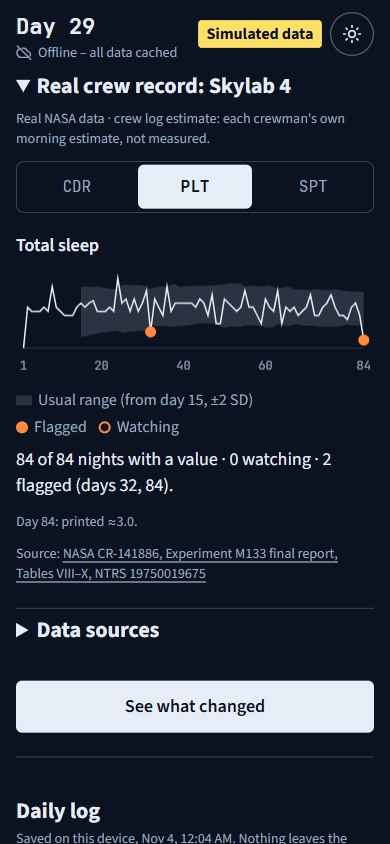
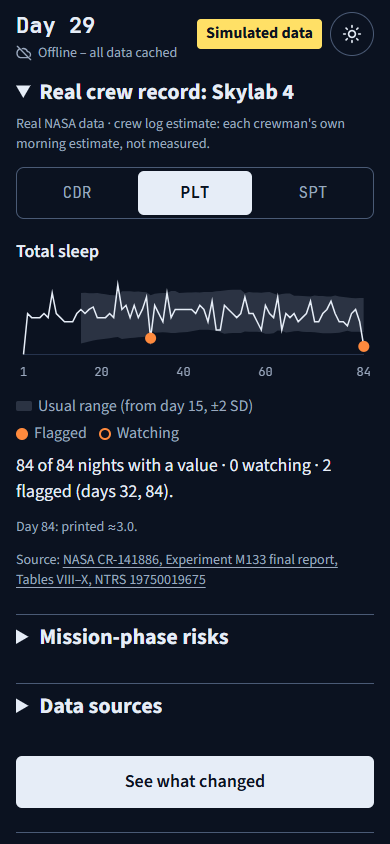
Mission-phase risks: five NASA hazards panel on the day 29 console

diff --git a/web/index.html b/web/index.html
@@ -195,6 +195,12 @@ fieldset { border: 0; padding: 0; margin: 28px 0 0; min-width: 0; }
 .range.three { grid-template-columns: repeat(3, 1fr); }
 .skylab .legend { margin: 12px 0 8px; }
 .skylab .legend li { padding: 0; border: 0; }
+/* Mission-phase risks (PLAN item 5, design B3): static NASA text; each risk a card with its day 29 chip. */
+.hazards h3 { margin: 4px 0 8px; font-size: 28px; line-height: 1.2; }
+.hazards h4 { margin: 20px 0 4px; font-size: 20px; }
+.hazards .trend-card { margin-top: 8px; }
+.hazards .trend-card p + p { margin-top: 6px; }
+.risk-head { display: flex; flex-wrap: wrap; justify-content: space-between; align-items: center; gap: 4px 8px; margin-bottom: 6px; font-size: 18px; }
 .sources { margin-top: 24px; border-top: 1px solid var(--strong); }
 .sources summary { min-height: 44px; padding: 6px 0; font-size: 22px; line-height: 32px; font-weight: 700; cursor: pointer; } /* list-item keeps the open/closed marker */
 .sources ul { list-style: none; padding: 0; margin: 0; font-size: 16px; }
@@ -443,6 +449,54 @@ fieldset { border: 0; padding: 0; margin: 28px 0 0; min-width: 0; }
     <p id="skylab-notes" class="meta num" hidden></p>
     <p class="meta">Source: <a href="https://ntrs.nasa.gov/citations/19750019675" target="_blank" rel="noopener noreferrer">NASA CR-141886, Experiment M133 final report, Tables VIII–X, NTRS 19750019675</a></p>
   </details>
+  <details id="hazards" class="sources hazards">
+    <summary>Mission-phase risks</summary>
+    <h3>Day 29 of flight</h3>
+    <p>NASA's five hazards of long missions, with NASA's numbers. The day 29 lines are our reading of NASA's timings.</p>
+    <section>
+      <h4>Space radiation</h4>
+      <p>"Invisible to the human eye, space radiation is not only stealthy but considered one of the most hazardous aspects of spaceflight."</p>
+      <p class="meta">Source: <a href="https://www.nasa.gov/hrp/hazards/" target="_blank" rel="noopener noreferrer">NASA Human Research Program, 5 Hazards of Human Spaceflight</a></p>
+    </section>
+    <section>
+      <h4>Isolation and confinement</h4>
+      <p>"Behavioral responses occur among groups of people far from Earth who are isolated and confined in a small space over a long period of time."</p>
+      <p class="meta">Source: <a href="https://www.nasa.gov/hrp/hazard-isolation-and-confinement/" target="_blank" rel="noopener noreferrer">NASA Human Research Program, Hazard: Isolation and Confinement</a></p>
+    </section>
+    <section>
+      <h4>Distance from Earth</h4>
+      <p>"Instructions, new supplies, medical care, and more become increasingly challenging to receive from Earth as astronauts venture deeper into space."</p>
+      <p class="meta">Source: <a href="https://www.nasa.gov/hrp/hazard-distance-from-earth/" target="_blank" rel="noopener noreferrer">NASA Human Research Program, Hazard: Distance From Earth</a></p>
+    </section>
+    <section>
+      <h4>Gravity fields</h4>
+      <p>"Floating weightlessly within a spacecraft can lead to dizziness, bone and muscle loss, vision issues, and more."</p>
+      <p class="meta">Source: <a href="https://www.nasa.gov/hrp/hazard-gravity-fields/" target="_blank" rel="noopener noreferrer">NASA Human Research Program, Hazard: Gravity Fields</a></p>
+      <div class="trend-card">
+        <div class="risk-head"><strong>Space adaptation syndrome</strong><span class="chip">Day 29: usually past</span></div>
+        <p>"Space Adaptation Syndrome (SAS) occurs in up to 70% of first-time fliers (30% of whom may experience vomiting) during the first 48 to 72 hours of microgravity."</p>
+        <p class="meta">Source: <a href="https://www.nasa.gov/wp-content/uploads/2020/10/2022-04-08_nasa-std-3001_vol_2_rev_c_final.pdf" target="_blank" rel="noopener noreferrer">NASA-STD-3001 Vol 2 Rev C, [V2 7102] rationale, p.96</a></p>
+      </div>
+      <div class="trend-card">
+        <div class="risk-head"><strong>Headward fluid shift</strong><span class="chip">Day 29: ongoing</span></div>
+        <p>The total fluid shift was reported to be 2 L, most of it in the first 6 to 10 hours after entering microgravity.</p>
+        <p class="meta">Source: <a href="https://ntrs.nasa.gov/citations/20180000936" target="_blank" rel="noopener noreferrer">NTRS 20180000936, Evidence Report: Risk of Spaceflight Associated Neuro-ocular Syndrome (SANS), pp.69–70</a></p>
+        <p class="meta">Source for "ongoing": <a href="https://ntrs.nasa.gov/citations/20140003729" target="_blank" rel="noopener noreferrer">NTRS 20140003729, Evidence Report: Risk of Decompression Sickness (DCS), p.11</a></p>
+      </div>
+      <div class="trend-card">
+        <div class="risk-head"><strong>Bone loss</strong><span class="chip">Day 29: ongoing</span></div>
+        <p>"Without the continuous load of Earth’s gravity, weight-bearing bones lose on average 1% to 1.5% of mineral density per month during spaceflight."</p>
+        <p class="meta">Source: <a href="https://www.nasa.gov/hrp/hazard-gravity-fields/" target="_blank" rel="noopener noreferrer">NASA Human Research Program, Hazard: Gravity Fields</a></p>
+        <p>With resistive exercise on ARED, hip and spine loss has been reduced to 0.3 to 0.5% per month.</p>
+        <p class="meta">Source: <a href="https://humanresearchroadmap.nasa.gov/evidence/reports/Osteo.pdf" target="_blank" rel="noopener noreferrer">NASA Evidence Report: Risk of Early Onset Osteoporosis Due to Space Flight, p.21</a></p>
+      </div>
+    </section>
+    <section>
+      <h4>Hostile closed environments</h4>
+      <p>"Maintaining a safe ecosystem inside a vehicle presents unique challenges, from ensuring optimal temperatures, pressures, and lighting, to reducing noise, monitoring microbial communities, and tracking immune responses."</p>
+      <p class="meta">Source: <a href="https://www.nasa.gov/hrp/hazard-hostile-closed-environments/" target="_blank" rel="noopener noreferrer">NASA Human Research Program, Hazard: Hostile/Closed Environments</a></p>
+    </section>
+  </details>
   <details id="sources" class="sources">
     <summary>Data sources</summary>
     <p class="meta">Source · agency · used for · real or simulated · id or link. Links open the source online; nothing is fetched.</p>
@@ -570,6 +624,6 @@ fieldset { border: 0; padding: 0; margin: 28px 0 0; min-width: 0; }
 <script src="spe.js?v=8dc481d0f5"></script>
 <script src="reaction.js?v=0c373ca889"></script>
 <script src="store.js?v=cb99d76b39"></script>
-<script src="app.js?v=beb4c3fe03"></script>
+<script src="app.js?v=938eb4f0b1"></script>
 </body>
 </html>

diff --git a/web/app.js b/web/app.js
@@ -327,6 +327,7 @@ function recompute(day) {
   state.flags = Rules.evaluate(state.rows);
   $("day-label").textContent = `Day ${day}`;
   put($("flags-title"), day === TODAY ? "What changed today" : "What changed on day 30");
+  $("hazards").hidden = day !== TODAY; // its text is about day 29 (PLAN item 5)
   renderConsole();
 }
 

diff --git a/tests/test_hazards.py b/tests/test_hazards.py
@@ -1,0 +1,143 @@
+"""PLAN item 5, design B3: mission-phase risks under the five HRP hazards. Static text in web/index.html, display only.
+The sentences below were matched against the sources opened 4 Nov 2026; they must reach the screen unedited."""
+
+import json
+import re
+from html import unescape
+from pathlib import Path
+
+from baseline.compute.wording import BLOCKED, blocks_diagnostic
+from tests.test_marks import pytestmark as needs_node, run
+
+HRP = "https://www.nasa.gov/hrp/"
+STD = "https://www.nasa.gov/wp-content/uploads/2020/10/2022-04-08_nasa-std-3001_vol_2_rev_c_final.pdf"
+OSTEO = "https://humanresearchroadmap.nasa.gov/evidence/reports/Osteo.pdf"
+HEADINGS = ["Space radiation", "Isolation and confinement", "Distance from Earth", "Gravity fields", "Hostile closed environments"]
+SENTENCES = {
+    "Space radiation": ('"Invisible to the human eye, space radiation is not only stealthy but considered one of the most hazardous aspects of spaceflight."', HRP + "hazards/"),
+    "Isolation and confinement": ('"Behavioral responses occur among groups of people far from Earth who are isolated and confined in a small space over a long period of time."', HRP + "hazard-isolation-and-confinement/"),
+    "Distance from Earth": ('"Instructions, new supplies, medical care, and more become increasingly challenging to receive from Earth as astronauts venture deeper into space."', HRP + "hazard-distance-from-earth/"),
+    "Gravity fields": ('"Floating weightlessly within a spacecraft can lead to dizziness, bone and muscle loss, vision issues, and more."', HRP + "hazard-gravity-fields/"),
+    "Hostile closed environments": ('"Maintaining a safe ecosystem inside a vehicle presents unique challenges, from ensuring optimal temperatures, pressures, and lighting, to reducing noise, monitoring microbial communities, and tracking immune responses."', HRP + "hazard-hostile-closed-environments/"),
+}
+# Label, chip, figure line, then every (link text, URL) the card must carry.
+RISKS = [
+    ("Space adaptation syndrome", "Day 29: usually past",
+     '"Space Adaptation Syndrome (SAS) occurs in up to 70% of first-time fliers (30% of whom may experience vomiting) during the first 48 to 72 hours of microgravity."',
+     [("NASA-STD-3001 Vol 2 Rev C, [V2 7102] rationale, p.96", STD)]),
+    ("Headward fluid shift", "Day 29: ongoing",
+     "The total fluid shift was reported to be 2 L, most of it in the first 6 to 10 hours after entering microgravity.",
+     [("NTRS 20180000936, Evidence Report: Risk of Spaceflight Associated Neuro-ocular Syndrome (SANS), pp.69–70", "https://ntrs.nasa.gov/citations/20180000936"),
+      ("NTRS 20140003729, Evidence Report: Risk of Decompression Sickness (DCS), p.11", "https://ntrs.nasa.gov/citations/20140003729")]),
+    ("Bone loss", "Day 29: ongoing",
+     '"Without the continuous load of Earth’s gravity, weight-bearing bones lose on average 1% to 1.5% of mineral density per month during spaceflight."',
+     [("NASA Human Research Program, Hazard: Gravity Fields", HRP + "hazard-gravity-fields/"),
+      ("NASA Evidence Report: Risk of Early Onset Osteoporosis Due to Space Flight, p.21", OSTEO)]),
+]
+ARED = "With resistive exercise on ARED, hip and spine loss has been reduced to 0.3 to 0.5% per month."
+
+
+def html() -> str:
+    return Path("web/index.html").read_text(encoding="utf-8")
+
+
+def panel() -> str:
+    h = html()
+    start = h.index('<details id="hazards"')
+    return h[start:h.index("</details>", start)]
+
+
+def words(fragment: str) -> str:
+    return re.sub(r"\s+", " ", unescape(re.sub(r"<[^>]+>", " ", fragment))).strip()
+
+
+def links(fragment: str) -> list[tuple[str, str]]:
+    return [(words(t), u) for u, t in re.findall(r'<a href="([^"]+)"[^>]*>(.*?)</a>', fragment)]
+
+
+def lines() -> list[str]:
+    """Every on-screen line: each element's own text."""
+    return [words(t) for t in re.findall(r"<(?:summary|h3|h4|p|strong|span)\b[^>]*>(.*?)</(?:summary|h3|h4|p|strong|span)>", panel(), re.S)]
+
+
+def sections() -> dict[str, str]:
+    found = re.findall(r"<section>(.*?)</section>", panel(), re.S)
+    return {words(re.search(r"<h4>(.*?)</h4>", s).group(1)): s for s in found}
+
+
+def test_panel_is_closed_titled_and_sits_between_skylab_and_data_sources():
+    h = html()
+    assert "open" not in panel().split(">", 1)[0]
+    assert h.index('id="skylab"') < h.index('id="hazards"') < h.index('id="sources"')
+    assert "<summary>Mission-phase risks</summary>" in panel() and "<h3>Day 29 of flight</h3>" in panel()
+    assert "Offline – all data cached" in h.split('id="hazards"')[0], "design B3's line comes from the page header"
+    assert "Simulated data" not in panel()
+    assert "The day 29 lines are our reading of NASA's timings." in panel()
+
+
+def test_five_headings_in_the_statements_order_each_with_its_nasa_sentence_and_link():
+    s = sections()
+    assert list(s) == HEADINGS
+    for heading, (sentence, url) in SENTENCES.items():
+        assert sentence in lines(), heading
+        assert links(s[heading])[0][1] == url, heading
+    assert "“" not in panel() and "..." not in panel() and "…" not in panel(), "no NASA sentence is cut"
+
+
+def test_three_risks_sit_under_gravity_fields_with_nasas_numbers_status_and_sources():
+    gravity, on_screen = sections()["Gravity fields"], lines()
+    cards = re.findall(r'<div class="trend-card">(.*?)\n\s*</div>\n', gravity, re.S)
+    assert len(cards) == 3
+    for card, (label, chip, figure, sources) in zip(cards, RISKS):
+        assert f"<strong>{label}</strong>" in card and f'<span class="chip">{chip}</span>' in card, label
+        assert figure in [words(p) for p in re.findall(r"<p>(.*?)</p>", card, re.S)], label
+        assert links(card) == sources, label
+    assert ARED in on_screen
+    for other in set(HEADINGS) - {"Gravity fields"}:
+        assert 'class="chip"' not in sections()[other], other
+
+
+def test_only_nasas_figures_and_no_running_bone_total():
+    text = words(panel())
+    assert sorted(set(re.findall(r"[\d.]+(?= ?%)", text))) == ["0.5", "1", "1.5", "30", "70"]
+    assert not re.search(r"60 to 80|1\.5 to 2 lit|\blitres?\b|per cent|so far|in total|total bone", text, re.I)
+    assert text.count("per month") == 2, "a rate per month, never a running total for day 29"
+
+
+@needs_node
+def test_every_line_passes_the_wording_check_in_python_and_on_the_page():
+    on_screen = lines()
+    assert len(on_screen) > 20
+    for line in on_screen:
+        assert blocks_diagnostic(line) == [], line
+    text = words(panel())
+    assert blocks_diagnostic(text) == []
+    out = run(f"const p = await page(mem()); return {{ hits: p.run({json.dumps('Rules.blocksDiagnostic(' + json.dumps(text) + ')')}) }};")
+    assert out["hits"] == []
+
+
+def test_sm_caveat_stays_off_and_symptom_stays_blocked():
+    assert "SM.pdf" not in panel() and "symptom" not in panel().lower() and "cosmonaut" not in panel().lower()
+    assert "symptom" in BLOCKED
+
+
+def test_sources_are_on_the_card_only():
+    """D10: no Data sources row and no README row for these sources."""
+    h = html()
+    start = h.index('<details id="sources"')
+    data_sources = h[start:h.index("</details>", start)]
+    readme = Path("README.md").read_text(encoding="utf-8")
+    for only_here in (OSTEO, "20140003729", "20180000936", "hazard-gravity-fields", "/hrp/hazards"):
+        assert only_here in panel(), only_here
+        assert only_here not in data_sources and only_here not in readme, only_here
+
+
+@needs_node
+def test_panel_shows_on_day_29_only():
+    """Its text is about day 29, so the day 30 console does not carry it."""
+    out = run("""
+const p = await page(mem()); p.check(); const d29 = p.$('hazards').hidden;
+p.run('recompute(NEXT)'); const d30 = p.$('hazards').hidden;
+p.run('recompute(TODAY)'); return { d29, d30, back: p.$('hazards').hidden, errors: p.errors };
+""")
+    assert out == {"d29": False, "d30": True, "back": False, "errors": []}

diff --git a/README.md b/README.md
@@ -43,7 +43,7 @@ Three ideas carry the whole app:
 
 You need Python 3.11 or newer to run the app. Nothing else. Install once online, then everything runs with wifi off.
 
-The tests also need Node (run here on v26.2.0). These test files use it: `test_marks.py`, `test_mars_caution.py`, `test_maths.py`, `test_skylab4.py`, `test_spe.py`, `test_store.py`, `test_trend.py`, `test_usual_range_line.py`, `test_web.py` and `test_wording.py`. Without Node, pytest skips those tests.
+The tests also need Node (run here on v26.2.0). These test files use it: `test_hazards.py`, `test_marks.py`, `test_mars_caution.py`, `test_maths.py`, `test_skylab4.py`, `test_spe.py`, `test_store.py`, `test_trend.py`, `test_usual_range_line.py`, `test_web.py` and `test_wording.py`. Without Node, pytest skips those tests.
 
 Clone or download this repository, open a terminal in its folder and run the lines one at a time.
 
@@ -69,7 +69,7 @@ pytest -q
 python -m baseline.serve
 ```
 
-`pytest -q` should print **165 passed** (with Node). The last line opens the demo in your browser at http://localhost:8000 (or 8001–8010 if busy). Ctrl+C stops it.
+`pytest -q` should print **173 passed** (with Node). The last line opens the demo in your browser at http://localhost:8000 (or 8001–8010 if busy). Ctrl+C stops it.
 
 **On a phone:** `python -m baseline.serve --lan`, then open the second address it prints on a phone on the same wifi. Windows may ask to let Python through the firewall; allow it for private networks.
 
@@ -147,6 +147,7 @@ flowchart TD
 | **Real** | NOAA GOES solar-proton flux, 7 days, cached 30 Sep 2026 | Shown on the console in its own box. A rule raises a solar particle event flag at NOAA's S1 level (≥ 10 pfu at ≥ 10 MeV), with tests. At or above S1 the page opens a full-screen alert, "Shelter now", with the step "Go to the storm shelter." directly under the title, then the reading and when it was cached; a "Sources" control, closed at first, holds the sources (NASA OCHMO-TB-020 Rev E; NASA-STD-3001 Vol 2 Rev C [V2 6100]; NOAA SWPC) and an "Evidence strength" line. The 30 Sep reading is below S1, so no alert opens. |
 | **Real** | NOAA's listed values for the solar proton event of 9 Sep 2024 (start 16:40 UTC, maximum 34 pfu at 22:50 UTC, S1), from the SWPC event list and the NCEI proton event list, also reported by the Australian Bureau of Meteorology; cached 30 Oct 2026 in `cache/noaa/spe-2024-09-09.json` | "Replay a real solar storm: 9 September 2024" on the console plays the three points and opens the alert at the S1 crossing, labelled as a replay, not today's data. No curve. |
 | **Real** | NASA MSL RAD Mars surface radiation, 30 days to 20 Oct 2026, cached 22 Oct 2026 | Shown in the same box as the latest day in µGy per day. A rule with tests compares that day with the earlier days, and the box says whether it is within or above their usual range (mean ± 2 SD). When the rule fires, a "Caution" flag row opens a card with a step. Our own 2-SD rule, not NASA's numeric threshold, which is not published. |
+| **Real** | NASA's sentences and figures on the five hazards of human spaceflight (Human Research Program pages, NASA-STD-3001 Vol 2 Rev C, three NASA evidence reports) | In the closed "Mission-phase risks" panel on the day 29 console, each with its source. The day 29 lines ("usually past", "ongoing") are our reading of NASA's timings. |
 | **Real** | NASA OSDR search results, 10 keywords, cached 30 Sep and 10 Oct 2026 | Source of the OSD-140 study on two cards. |
 | **Real** | NASA NTRS search results, 11 keywords, cached 3 Oct and 10 Oct 2026 | Source of the NTRS reports on the cards. |
 | **Real** | Your answers in the self-check | Replace day 29's reaction time, sleep and mood. Each saved check is kept in this browser on this device (no cloud, no network) and is still there after a reload; "Download the daily log (CSV)" exports it and "Clear saved days" removes it. |
@@ -218,7 +219,7 @@ web/                    the page: index.html, app.js, rules.js, trend.js, projec
 data/fixtures/          simulated 30-day records (clean, anomaly)
 cache/                  NTRS, OSDR and NOAA responses with source URL and fetch time
 docs/                   evidence map, evidence notes, design notes
-tests/                  165 tests
+tests/                  173 tests
 ```
 
 ---
